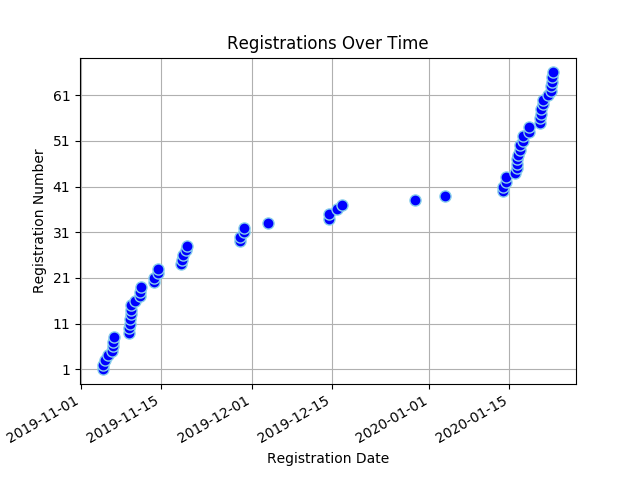
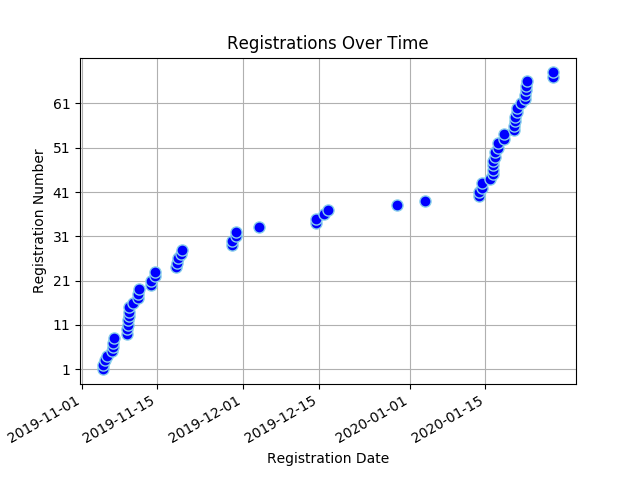
Registree stats backup on Mon Jan 27 15:55:19 SAST 2020

diff --git a/content/registrees/_index.md b/content/registrees/_index.md
@@ -3,7 +3,7 @@ title: Registration Stats
 draft: false
 ---
 
-<ul><li><strong>Number of Registrees</strong>: 66</li>
+<ul><li><strong>Number of Registrees</strong>: 68</li>
 
 <li><strong>Number of Clubs</strong>: 29</li>
 
@@ -30,6 +30,6 @@ draft: false
         </tr>
     </thead>
     <tbody>
-<tr><td>Valencia Beukes</td><td>Kuilsriver</td></tr><tr><td>Jose Braga Borges</td><td>Malmesbury</td></tr><tr><td>Nkandu Chapeshamano</td><td>Rustenburg</td></tr><tr><td>Lynnette Virginia Christians</td><td>Cape Of Good Hope</td></tr><tr><td>Sharon Cottle</td><td>Groote Schuur</td></tr><tr><td>Desiree Du Toit</td><td>Ramsgate</td></tr><tr><td>Charles Flanagan</td><td>Tokai</td></tr><tr><td>Julie Flanagan</td><td>Tokai</td></tr><tr><td>Allison Georges</td><td>Cape Of Good Hope</td></tr><tr><td>Valerie Graham</td><td>Nelspruit</td></tr><tr><td>Michael Graham</td><td>Nelspruit</td></tr><tr><td>Wendy Higgins</td><td>Wilro Park</td></tr><tr><td>Trevor Hobbs</td><td>North Durban</td></tr><tr><td>Avril Hobbs</td><td>North Durban</td></tr><tr><td>Jacqui Hocking</td><td>Midrand</td></tr><tr><td>Cliff Hocking</td><td>Midrand</td></tr><tr><td>Akinyemi Ismaila Tunde</td><td>Alberton</td></tr><tr><td>Dawid Jacobs</td><td>Durbanville</td></tr><tr><td>Brenda Joshua</td><td>Cape Of Good Hope</td></tr><tr><td>Charlotte Jubelin</td><td>Cape Of Good Hope</td></tr><tr><td>Pascal Kabangu</td><td>Cape Of Good Hope</td></tr><tr><td>Zwaai Krüger</td><td>Sedgefield</td></tr><tr><td>Heather Lee</td><td>Cape Of Good Hope</td></tr><tr><td>Darrol Lee</td><td>Cape Of Good Hope</td></tr><tr><td>Lance Maytham</td><td>Bredasdorp</td></tr><tr><td>David McCullough</td><td>Benoni Lakes</td></tr><tr><td>Gizella McCullough</td><td>Benoni Lakes</td></tr><tr><td>Mark Meltzer</td><td>The Wilds</td></tr><tr><td>Roy Michas</td><td>Midrand</td></tr><tr><td>Dawn Michas</td><td>Midrand</td></tr><tr><td>Patrick Mills</td><td>Centurion</td></tr><tr><td>Bernice Mills</td><td>Centurion</td></tr><tr><td>Brian Moses</td><td>Cape Of Good Hope</td></tr><tr><td>Alain Moulounda</td><td>Cape Of Good Hope</td></tr><tr><td>Michael Newlands</td><td>Port Alfred</td></tr><tr><td>Jessica Philander</td><td>Cape Of Good Hope</td></tr><tr><td>Yvonne  Maureen Poyo</td><td>Cape Of Good Hope</td></tr><tr><td>Pinky Serobatse</td><td>(Partner in Service)</td></tr><tr><td>Susanna Helena Smit</td><td>Centurion</td></tr><tr><td>Herman Smit</td><td>Swellendam</td></tr><tr><td>Berdine Smit</td><td>(Partner in Service)</td></tr><tr><td>Bennie Smith</td><td>Wellington</td></tr><tr><td>Rochelle Smith</td><td>Cape Of Good Hope</td></tr><tr><td>Jeff Smith</td><td>Port Shepstone</td></tr><tr><td>Pierre Theron</td><td>Midrand</td></tr><tr><td>Moira Theron</td><td>Midrand</td></tr><tr><td>Alex Tshikala</td><td>Athlone</td></tr><tr><td>Alistair Tuckett</td><td>Roodepoort Clearwater Cyber</td></tr><tr><td>Gail Tuckett</td><td>Roodepoort Clearwater Cyber</td></tr><tr><td>Rowan Tuckett</td><td>Roodepoort Clearwater Cyber</td></tr><tr><td>Yolandi Van der Schyf</td><td>Midrand</td></tr><tr><td>Keith Weston</td><td>Scottburgh</td></tr><tr><td>Barbara Weston</td><td>Scottburgh</td></tr><tr><td>Joyce Wilcocks</td><td>Pretoria Jakaranda</td></tr><tr><td>Richard Williams</td><td>(Partner in Service)</td></tr><tr><td>Owolabi Williams Monzur</td><td>Badagry</td></tr><tr><td>Geila Wills</td><td>Cape Town</td></tr><tr><td>Judy Young</td><td>Durbanville</td></tr><tr><td>Sydney van Heerden</td><td>Wilro Park</td></tr><tr><td>Sandy van Heerden</td><td>Wilro Park</td></tr><tr><td>Lindie van Wyk</td><td>Pretoria Jakaranda</td></tr><tr><td>Vicki van Wyk</td><td>North Durban</td></tr><tr><td>Kim van Wyk</td><td>North Durban</td></tr><tr><td>Patricia van Wyk</td><td>Pretoria Jakaranda</td></tr><tr><td>Willie van Wyk</td><td>Midrand</td></tr><tr><td>Martha Maria van der Merwe</td><td>Malmesbury</td></tr>
+<tr><td>Valencia Beukes</td><td>Kuilsriver</td></tr><tr><td>Jose Braga Borges</td><td>Malmesbury</td></tr><tr><td>Nkandu Chapeshamano</td><td>Rustenburg</td></tr><tr><td>Lynnette Virginia Christians</td><td>Cape Of Good Hope</td></tr><tr><td>Sharon Cottle</td><td>Groote Schuur</td></tr><tr><td>Desiree Du Toit</td><td>Ramsgate</td></tr><tr><td>Charles Flanagan</td><td>Tokai</td></tr><tr><td>Julie Flanagan</td><td>Tokai</td></tr><tr><td>Allison Georges</td><td>Cape Of Good Hope</td></tr><tr><td>Valerie Graham</td><td>Nelspruit</td></tr><tr><td>Michael Graham</td><td>Nelspruit</td></tr><tr><td>Wendy Higgins</td><td>Wilro Park</td></tr><tr><td>Trevor Hobbs</td><td>North Durban</td></tr><tr><td>Avril Hobbs</td><td>North Durban</td></tr><tr><td>Jacqui Hocking</td><td>Midrand</td></tr><tr><td>Cliff Hocking</td><td>Midrand</td></tr><tr><td>Akinyemi Ismaila Tunde</td><td>Alberton</td></tr><tr><td>Dawid Jacobs</td><td>Durbanville</td></tr><tr><td>Brenda Joshua</td><td>Cape Of Good Hope</td></tr><tr><td>Charlotte Jubelin</td><td>Cape Of Good Hope</td></tr><tr><td>Pascal Kabangu</td><td>Cape Of Good Hope</td></tr><tr><td>Zwaai Krüger</td><td>Sedgefield</td></tr><tr><td>Heather Lee</td><td>Cape Of Good Hope</td></tr><tr><td>Darrol Lee</td><td>Cape Of Good Hope</td></tr><tr><td>Nick Maré</td><td>Benoni Lakes</td></tr><tr><td>Beaulieu Maré</td><td>Benoni Lakes</td></tr><tr><td>Lance Maytham</td><td>Bredasdorp</td></tr><tr><td>David McCullough</td><td>Benoni Lakes</td></tr><tr><td>Gizella McCullough</td><td>Benoni Lakes</td></tr><tr><td>Mark Meltzer</td><td>The Wilds</td></tr><tr><td>Roy Michas</td><td>Midrand</td></tr><tr><td>Dawn Michas</td><td>Midrand</td></tr><tr><td>Patrick Mills</td><td>Centurion</td></tr><tr><td>Bernice Mills</td><td>Centurion</td></tr><tr><td>Brian Moses</td><td>Cape Of Good Hope</td></tr><tr><td>Alain Moulounda</td><td>Cape Of Good Hope</td></tr><tr><td>Michael Newlands</td><td>Port Alfred</td></tr><tr><td>Jessica Philander</td><td>Cape Of Good Hope</td></tr><tr><td>Yvonne  Maureen Poyo</td><td>Cape Of Good Hope</td></tr><tr><td>Pinky Serobatse</td><td>(Partner in Service)</td></tr><tr><td>Susanna Helena Smit</td><td>Centurion</td></tr><tr><td>Herman Smit</td><td>Swellendam</td></tr><tr><td>Berdine Smit</td><td>(Partner in Service)</td></tr><tr><td>Bennie Smith</td><td>Wellington</td></tr><tr><td>Rochelle Smith</td><td>Cape Of Good Hope</td></tr><tr><td>Jeff Smith</td><td>Port Shepstone</td></tr><tr><td>Pierre Theron</td><td>Midrand</td></tr><tr><td>Moira Theron</td><td>Midrand</td></tr><tr><td>Alex Tshikala</td><td>Athlone</td></tr><tr><td>Alistair Tuckett</td><td>Roodepoort Clearwater Cyber</td></tr><tr><td>Gail Tuckett</td><td>Roodepoort Clearwater Cyber</td></tr><tr><td>Rowan Tuckett</td><td>Roodepoort Clearwater Cyber</td></tr><tr><td>Yolandi Van der Schyf</td><td>Midrand</td></tr><tr><td>Keith Weston</td><td>Scottburgh</td></tr><tr><td>Barbara Weston</td><td>Scottburgh</td></tr><tr><td>Joyce Wilcocks</td><td>Pretoria Jakaranda</td></tr><tr><td>Richard Williams</td><td>(Partner in Service)</td></tr><tr><td>Owolabi Williams Monzur</td><td>Badagry</td></tr><tr><td>Geila Wills</td><td>Cape Town</td></tr><tr><td>Judy Young</td><td>Durbanville</td></tr><tr><td>Sydney van Heerden</td><td>Wilro Park</td></tr><tr><td>Sandy van Heerden</td><td>Wilro Park</td></tr><tr><td>Lindie van Wyk</td><td>Pretoria Jakaranda</td></tr><tr><td>Vicki van Wyk</td><td>North Durban</td></tr><tr><td>Kim van Wyk</td><td>North Durban</td></tr><tr><td>Patricia van Wyk</td><td>Pretoria Jakaranda</td></tr><tr><td>Willie van Wyk</td><td>Midrand</td></tr><tr><td>Martha Maria van der Merwe</td><td>Malmesbury</td></tr>
 </tbody>
 </table>

diff --git a/content/full_stats/_index.md b/content/full_stats/_index.md
@@ -11,30 +11,30 @@
 <body>
 <h1 style="color: #000000;">Full Registration Stats</h1>
 <ul><li><strong>Number of Registrees</strong><ul>
-<li><strong>Total</strong>: 66</li>
-<li><strong>Lions</strong>: 63</li>
+<li><strong>Total</strong>: 68</li>
+<li><strong>Lions</strong>: 65</li>
 <li><strong>Partners In Service</strong>: 3</li>
 </ul>
 <li><strong>Number of Clubs</strong>: 29</li>
 <li><strong>Club With Most Attendees</strong>: Cape Of Good Hope (12 registrees)</li>
-<li><strong>Registrations</strong></li><ul><li><strong>Full</strong>: 65
+<li><strong>Registrations</strong></li><ul><li><strong>Full</strong>: 67
 <li><strong>Banquet</strong>: 1
 <li><strong>Convention</strong>: 0
 <li><strong>Theme</strong>: 1
 </ul><li><strong>Extra Items</strong></li><ul>
-<li><strong>Pins</strong>: 60
+<li><strong>Pins</strong>: 62
 </ul><li><strong>Extra Activities</strong></li><ul>
 <li><strong>MJF Lunch</strong>: 20
-<li><strong>PDG Breakfast</strong>: 15
+<li><strong>PDG Breakfast</strong>: 17
 <li><strong>Sharks Board</strong>: 6
-<li><strong>Golf</strong>: 1
+<li><strong>Golf</strong>: 2
 <li><strong>Sight Seeing</strong>: 6
-<li><strong>Service Project</strong>: 15
+<li><strong>Service Project</strong>: 17
 <li><strong>Partner Program</strong>: 3
 </ul>
-<li><strong>Total Owed:</strong> R87775.00</li>
+<li><strong>Total Owed:</strong> R90455.00</li>
 <li><strong>Paid:</strong> R28675.00</li>
-<li><strong>Still Owed:</strong> R59100.00</li>
+<li><strong>Still Owed:</strong> R61780.00</li>
 <li><strong>Dietary Requirements</strong></li><ul>
 <li>Allergic to cheese and cream</li>
 <li>Allergic to fish</li>
@@ -337,6 +337,28 @@ StillOwed
 <td>1285.00</td>
 <td>1285.00</td>
 <td>0.00</td>
+</tr>
+
+    
+<tr style="background-color: yellow">
+<td>75</td>
+<td>Nick Maré</td>
+<td>Benoni Lakes</td>
+<td>PDG Nick Maré</td>
+<td>1395.00</td>
+<td>0.00</td>
+<td>1395.00</td>
+</tr>
+
+    
+<tr style="background-color: yellow">
+<td>76</td>
+<td>Beaulieu Maré</td>
+<td>Benoni Lakes</td>
+<td>Council Secretary Beaulieu Maré</td>
+<td>1285.00</td>
+<td>0.00</td>
+<td>1285.00</td>
 </tr>
 
     
